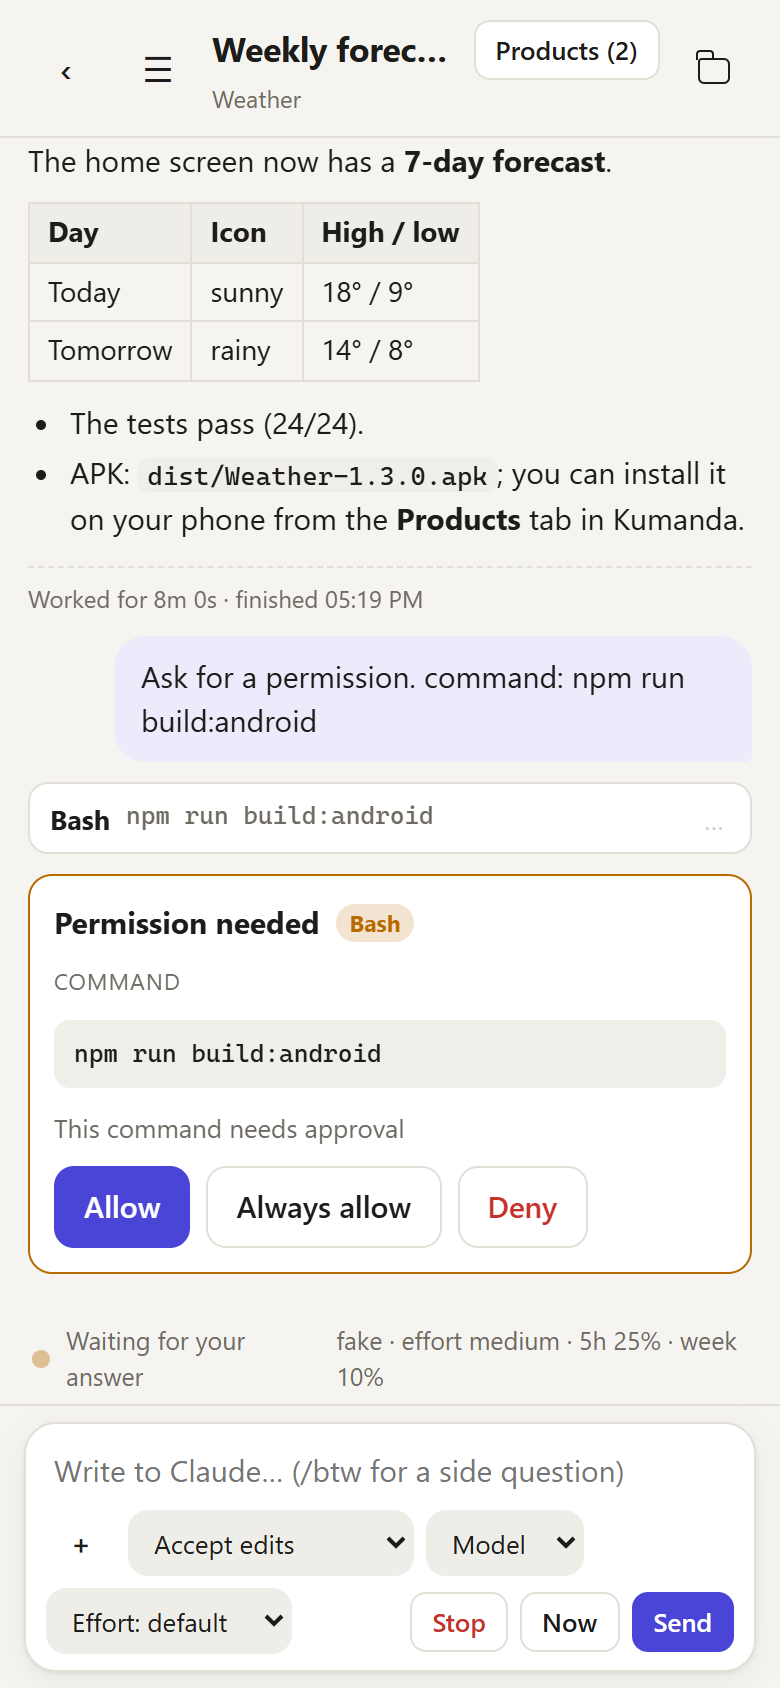
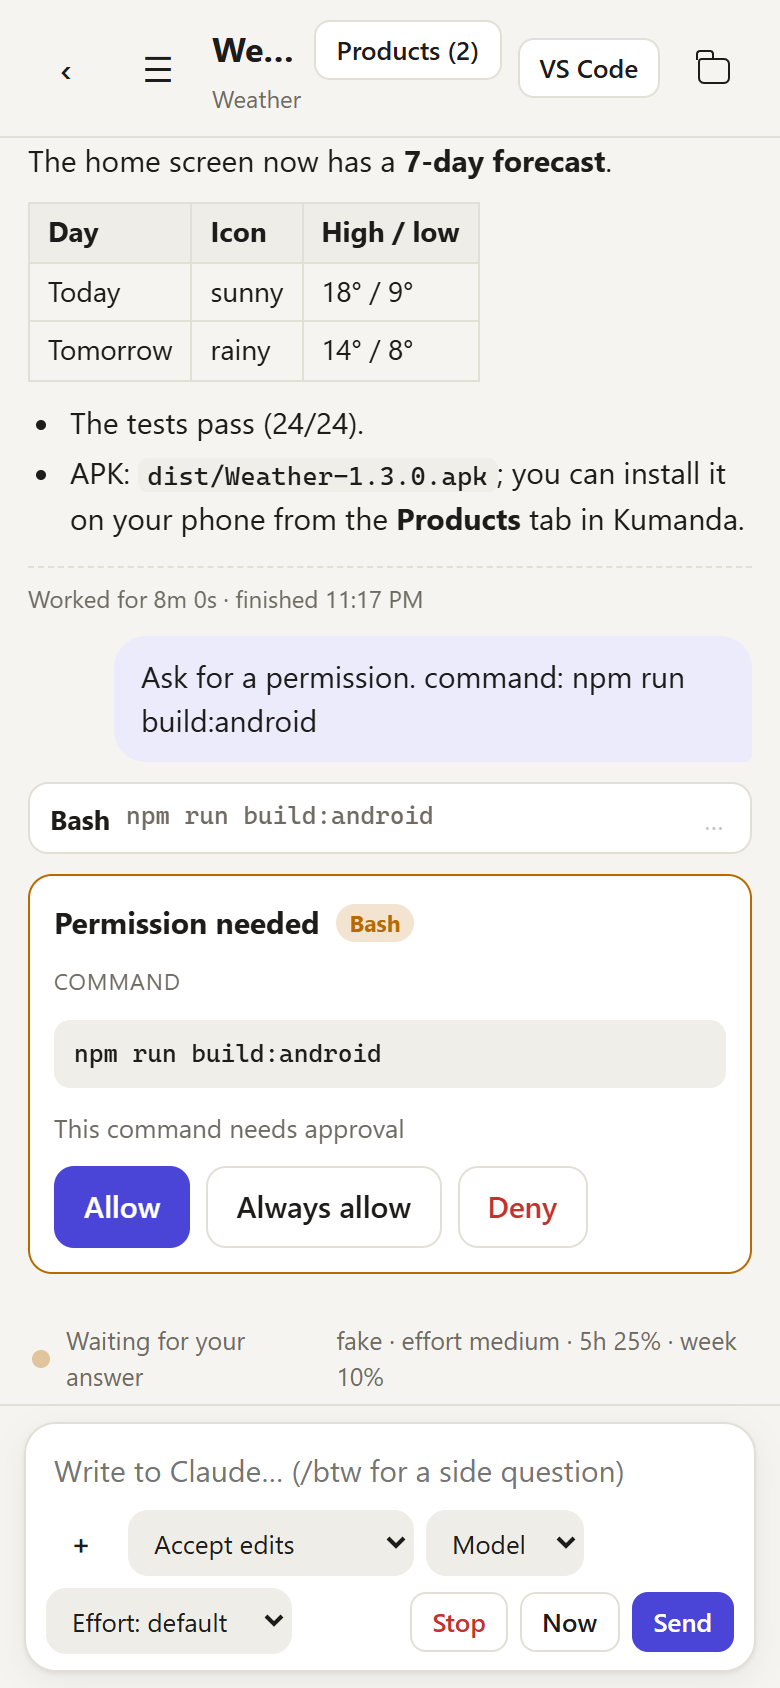
Add a VS Code button and Chats / Back to chat navigation
- POST /api/project/:pid/vscode opens the project in VS Code and the chat in the Claude Code panel
- The chat top bar links to the project's chats on desktop too; the file viewer goes back to the last chat
- --stop can also stop a running 1.x server

Changed region(s): [[0.3385, 0.0, 0.8308, 0.0616]]

diff --git a/web/app.js b/web/app.js
@@ -586,10 +586,12 @@ function drawProjects() {
 
 const projectName = pid => projects.find(p => p.id === pid)?.name || '';
 
-/** With `pid` there is an explorer (Files) button on the right. */
-function topBar({ title, sub, back = '#/', right = [], pid }) {
+/** With `pid` there is an explorer (Files) button on the right. `backLabel` names where the back arrow goes; on the desktop
+ *  it is written next to the arrow (there the arrow is hidden only when it would go to the home page, the sidebar covers that). */
+function topBar({ title, sub, back = '#/', backLabel = 'Back', right = [], pid }) {
   return h('div', { class: 'top' },
-    h('a', { class: 'btn icon flat back', href: back, 'aria-label': 'Back' }, '‹'),
+    h('a', { class: `btn flat back${back === '#/' ? ' home icon' : ''}`, href: back, title: backLabel, 'aria-label': backLabel },
+      '‹', back !== '#/' && h('span', { class: 'back-label' }, backLabel)),
     h('button', { class: 'btn icon flat side-button', type: 'button', title: 'Project list (Ctrl+B)', 'aria-label': 'Toggle the project list', onclick: toggleSide }, '☰'),
     h('div', { class: 'title' }, typeof title === 'string' ? h('h1', {}, title) : title, sub && (typeof sub === 'string' ? h('div', { class: 'sub' }, sub) : sub)),
     right,
@@ -794,13 +796,18 @@ function codeView(text, lang) {
     lines.map(s => h('span', { class: 'ln' }, s.map(([cls, piece]) => (cls ? h('span', { class: `s-${cls}` }, piece) : piece)))));
 }
 
+// The last chat opened in each project: the file viewer's back arrow returns to it.
+const lastChat = new Map();
+
 function fileView(pid, path) {
   const name = path.split('/').pop();
   const body = h('div', { class: 'file-body' }, h('div', { class: 'empty' }, 'Loading…'));
   const infoEl = h('div', { class: 'file-bar' });
   const open = `/open?p=${pid}&path=${encodeURIComponent(path)}`;
   main.replaceChildren(
-    topBar({ title: name, sub: [projectName(pid), ...path.split('/').slice(0, -1)].filter(Boolean).join(' › '), back: `#/p/${pid}`, pid,
+    // Back goes to the chat you came from (the explorer is opened from a chat), else to the project's chats.
+    topBar({ title: name, sub: [projectName(pid), ...path.split('/').slice(0, -1)].filter(Boolean).join(' › '), pid,
+      ...(lastChat.get(pid) ? { back: `#/p/${pid}/s/${lastChat.get(pid)}`, backLabel: 'Back to chat' } : { back: `#/p/${pid}`, backLabel: 'Chats' }),
       right: [h('a', { class: 'btn small', href: open, target: '_blank', rel: 'noopener', title: 'Open in a separate browser tab (as a product)' }, 'Open'),
         h('a', { class: 'btn small', href: `${open}&download=1`, target: '_blank', rel: 'noopener', title: 'Download to this device' }, 'Download')] }),
     infoEl, h('div', { class: 'scroll' }, body));
@@ -980,7 +987,16 @@ function chatView(pid, sid) {
   if (sid && openBoxes.has(panelKey)) openProductPanel(true);
 
   const titleRow = h('div', { class: 'title-tabs' }, titleEl, productButton);
-  main.replaceChildren(topBar({ title: titleRow, sub: projectName(pid), back: `#/p/${pid}`, pid }), productPanel, scrollEl, statusEl, form);
+  // Opens the project (and this chat in Claude Code's VS Code panel) on the computer; Kumanda's idle process is closed first.
+  const vscodeButton = h('button', { class: 'btn small vscode-button', type: 'button', title: 'Open this project and chat in VS Code on the computer',
+    onclick: async () => {
+      try {
+        const r = await api(`/api/project/${pid}/vscode`, { session: sid || null });
+        toast(sid ? `Opening VS Code on the computer${r.closedRun ? '; the chat continues there' : ''}` : 'Opening the project in VS Code on the computer');
+      } catch (x) { if (x.status !== 401) toast(x.message); }
+    } }, 'VS Code');
+  if (sid) lastChat.set(pid, sid);
+  main.replaceChildren(topBar({ title: titleRow, sub: projectName(pid), back: `#/p/${pid}`, backLabel: 'Chats', pid, right: [vscodeButton] }), productPanel, scrollEl, statusEl, form);
 
   // ── drawing ──
   const atBottom = () => scrollEl.scrollHeight - scrollEl.scrollTop - scrollEl.clientHeight < 120;
@@ -1263,7 +1279,7 @@ function chatView(pid, sid) {
         ...(now && working ? { now: true } : {}) });
       draft.write('');
       input.value = ''; attachments.length = 0; drawAttachments(); resize();
-      if (!sid) { sid = r.session; history.replaceState(null, '', `#/p/${pid}/s/${sid}`); titleEl.textContent = text.slice(0, 60) || 'Chat'; productButton.hidden = false; }
+      if (!sid) { sid = r.session; lastChat.set(pid, sid); history.replaceState(null, '', `#/p/${pid}/s/${sid}`); titleEl.textContent = text.slice(0, 60) || 'Chat'; productButton.hidden = false; }
       if (r.generation !== live?.generation) { closeStream(); marker = ''; }
       openStream();
     } catch (x) { if (x.status !== 401) toast(x.message); }

diff --git a/web/style.css b/web/style.css
@@ -51,7 +51,9 @@ a { color: var(--accent); }
   #app.side-closed #side { display: none; }
   #app.explorer-open #explorer { display: flex; }
   #side, #explorer { border-right: 1px solid var(--line); }
-  .back { display: none !important; }
+  .back.home { display: none !important; }
+  #main .back:not(.home) { padding: 4px 12px 4px 8px; gap: 4px; }
+  #main .back .back-label { display: inline; font-size: 13px; }
   #app:not(.side-closed) .side-button { display: none; }
   .handle { display: block; position: absolute; top: 0; right: -4px; width: 8px; height: 100%; cursor: col-resize; z-index: 6; touch-action: none; }
   .handle:hover, .dragging .handle { background: linear-gradient(90deg, transparent 3px, var(--accent) 3px 5px, transparent 5px); }
@@ -78,6 +80,8 @@ a { color: var(--accent); }
 .btn.flat { border-color: transparent; background: transparent; padding: 8px 10px; }
 .btn.small { min-height: 30px; padding: 4px 10px; font-size: 13px; border-radius: 8px; }
 .icon { width: 38px; padding: 0; font-size: 18px; }
+.back { font-size: 18px; min-width: 38px; }
+.back .back-label { display: none; } /* phone: only the arrow */
 :focus-visible { outline: 2px solid var(--accent); outline-offset: 2px; }
 
 input[type=text], input[type=password], input[type=search], textarea, select { background: var(--surface); border: 1px solid var(--line); border-radius: 10px; padding: 9px 12px; width: 100%; }
